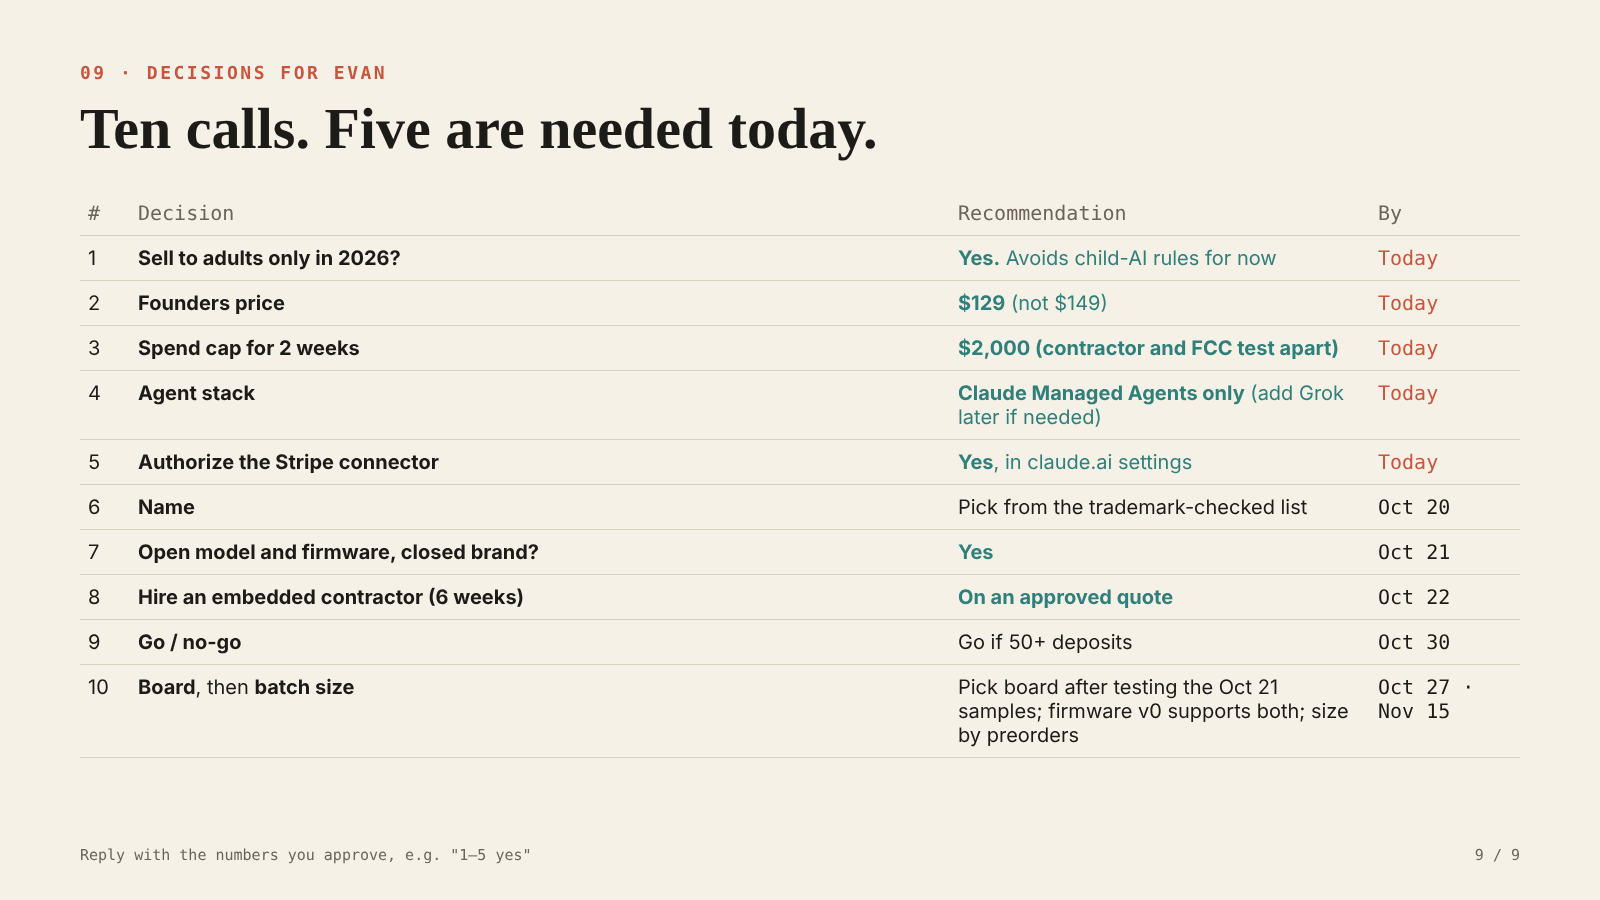
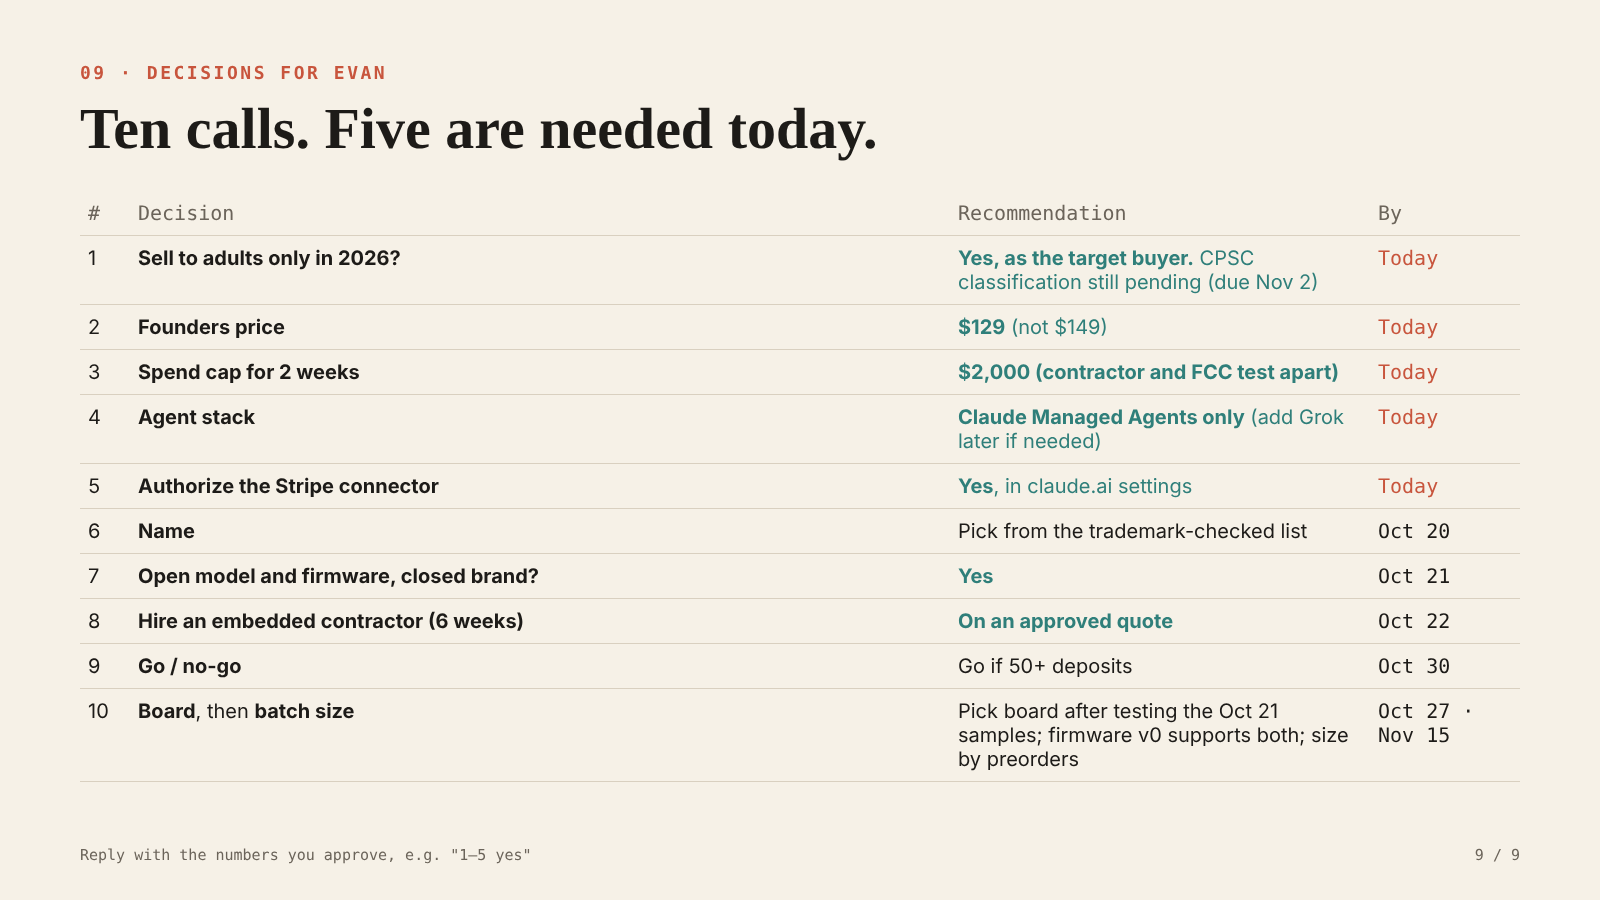
Eighteenth Codex review: no unfunded refund or update promises; Mahjong GO card; certificate cutoff; budget-paused runs; slide 09 classification
Claude-Session: https://claude.ai/code/session_01WCwHec3RfYx2cWkF2WjMXJ

Changed region(s): [[0.5938, 0.28, 0.9062, 0.8711], [0.0312, 0.3111, 0.3438, 0.8089]]

diff --git a/docs/zeitgeist/reports/2026-10-19.html b/docs/zeitgeist/reports/2026-10-19.html
@@ -107,7 +107,7 @@ footer{border-top:1px solid var(--rule);padding-top:20px;font-size:.85rem;color:
 
 <section aria-labelledby="bets">
   <h2 id="bets">GO trends</h2>
-  <p class="small">Correction, 20 October 2026: this section first listed Canasta. It is now WATCH (capped) and has its own section below. Mahjong (GO, 76) has no card here: it is the base the existing book already serves. Supper clubs (one press source) and game-night journals (no cited source) are also capped at WATCH by the two-signal-type rule.</p>
+  <p class="small">Correction, 20 October 2026: this section first listed Canasta. It is now WATCH (capped) and has its own section below. Mahjong (GO, 76) now has its own card, drawn from facts already in this report. Supper clubs (one press source) and game-night journals (no cited source) are also capped at WATCH by the two-signal-type rule.</p>
   <div class="bets">
 
   <article class="bet">
@@ -155,6 +155,28 @@ footer{border-top:1px solid var(--rule);padding-top:20px;font-size:.85rem;color:
       <div><div class="label">Cost</div>About $20 in fees and ads, plus chart design time.</div>
       <div><div class="label">Scale if</div>20+ total sales. Then publish the logbook and look for a canvas partner.</div>
       <div><div class="label">Stop if</div>Under 5 sales in 14 days.</div>
+    </div>
+  </article>
+
+  <article class="bet">
+    <div class="bet-head"><h3>3. Mahjong (the base)</h3><span class="score">76</span><span class="chip GO">GO</span><span class="small">Lane A · peak · factors 85 · 35 · 100 · 95 · 65 · 50</span></div>
+    <div>
+      <div class="label">Evidence (added 20 October 2026, from facts already in this report)</div>
+      <ul class="ev">
+        <li><span class="tag fact">FACT</span>Book demand: the paperback page, read 19 Oct 2026, shows "#83 in Card Games (Books)" (section "Book line moves").</li>
+        <li><span class="tag fact">FACT</span>Search and product demand: the "mahjong starter kit" Amazon keyword dropped 7,449 positions in one week in July. <a href="https://www.asinsight.com/report/US/mahjong-starter-kit">asinsight</a></li>
+        <li><span class="tag read">READ</span>Two signal types, so it stays GO, but the stage is peak (35): demand is high and flattening. Spend on the book you already sell, not on new mahjong products.</li>
+      </ul>
+    </div>
+    <div>
+      <div class="label">Revenue ladder</div>
+      <p>Book line: the moves in "Book line moves" below. No new gear or printables for mahjong itself; the growth is in the adjacent trends above.</p>
+    </div>
+    <div class="test">
+      <div><div class="label">14-day test</div>Move the paperback out of "Entertaining &amp; Holiday Cooking" into a games category.</div>
+      <div><div class="label">Cost</div>$0.</div>
+      <div><div class="label">Scale if</div>The Card Games rank improves within 14 days. Then add the review ask and the Countdown Deal.</div>
+      <div><div class="label">Stop if</div>No rank change in 14 days; leave the category and move to reviews.</div>
     </div>
   </article>
   </div>

diff --git a/docs/plans/companion-egg-images/slides.html b/docs/plans/companion-egg-images/slides.html
@@ -215,7 +215,7 @@ td{padding:10px 8px;border-bottom:1px solid var(--line);font-size:20px;vertical-
   <h1>Ten calls. Five are needed today.</h1>
   <table style="margin-top:30px">
     <tr class="mono mute" style="font-size:16px"><td style="width:50px">#</td><td>Decision</td><td style="width:420px">Recommendation</td><td style="width:150px">By</td></tr>
-    <tr><td>1</td><td><b>Sell to adults only in 2026?</b></td><td style="color:var(--teal)"><b>Yes.</b> Avoids child-AI rules for now</td><td class="mono" style="color:var(--rose)">Today</td></tr>
+    <tr><td>1</td><td><b>Sell to adults only in 2026?</b></td><td style="color:var(--teal)"><b>Yes, as the target buyer.</b> CPSC classification still pending (due Nov 2)</td><td class="mono" style="color:var(--rose)">Today</td></tr>
     <tr><td>2</td><td><b>Founders price</b></td><td style="color:var(--teal)"><b>$129</b> (not $149)</td><td class="mono" style="color:var(--rose)">Today</td></tr>
     <tr><td>3</td><td><b>Spend cap for 2 weeks</b></td><td style="color:var(--teal)"><b>$2,000 (contractor and FCC test apart)</b></td><td class="mono" style="color:var(--rose)">Today</td></tr>
     <tr><td>4</td><td><b>Agent stack</b></td><td style="color:var(--teal)"><b>Claude Managed Agents only</b> (add Grok later if needed)</td><td class="mono" style="color:var(--rose)">Today</td></tr>

diff --git a/docs/plans/companion-egg-christmas-2026.md b/docs/plans/companion-egg-christmas-2026.md
@@ -103,7 +103,7 @@ Plan:
 4. Add a word blocklist on the output. Add a fallback to scripted lines if the filter trips.
 5. Ship the model in flash. Ship personality packs as new model weights plus sprites.
 
-Model gate: a 200-line human review of model output runs on Sun Nov 8, before full preorders open and before the batch order. If it fails, preorders open for the scripted-lines pet, and the preorder page says so before anyone pays: the model "hatches" in a January update over USB, and any buyer can cancel for a full refund until the batch order on Nov 15. If the model passes Nov 8 but the Nov 20 freeze candidate fails its review, ship the Nov 8 model that already passed. The freeze can only improve on what buyers were sold, so no feature is lost and no refund round follows the batch order.
+Model gate: a 200-line human review of model output runs on Sun Nov 8, before full preorders open and before the batch order. If it fails, preorders open for the scripted-lines pet, sold as it is: the preorder page says before anyone pays that it speaks scripted lines and promises no model update. A later model, if one passes review, is a free extra, never a condition of the sale. Any buyer can cancel for a full refund until the batch order on Nov 15. If the model passes Nov 8 but the Nov 20 freeze candidate fails its review, ship the Nov 8 model that already passed. The freeze can only improve on what buyers were sold, so no feature is lost and no refund round follows the batch order.
 
 ## 4. Business plan
 
@@ -118,7 +118,7 @@ Model gate: a 200-line human review of model output runs on Sun Nov 8, before fu
 | Offer | Price | Ships | Notes |
 |---|---|---|---|
 | Founders Edition (numbered within the 300-unit batch) | $129 | Dec 8 to Dec 15 | Includes 2 species packs |
-| Gift box (certificate + sticker now, egg later) | $99 | Certificate by Dec 18. Egg: January if paid by Nov 15; February if paid after | The Christmas hedge. A gift box paid by Nov 15 reserves one egg inside the 300-unit batch (not extra hardware); its cash counts toward the batch gate. One paid after Nov 15 takes its egg from the February second hatch. The checkout page shows the buyer's egg month before payment |
+| Gift box (certificate + sticker now, egg later) | $99 | Printed certificate by Dec 18 if paid by Dec 14; after Dec 14, a printable certificate by email at purchase. Egg: January if paid by Nov 15; February if paid after | The Christmas hedge. A gift box paid by Nov 15 reserves one egg inside the 300-unit batch (not extra hardware); its cash counts toward the batch gate. One paid after Nov 15 takes its egg from the February second hatch. The checkout page shows the buyer's egg month before payment |
 | Developer Edition (open firmware, clear shell) | $149 | Dec 8 to Dec 15 | Limit 50, counted inside the 300-unit batch (not extra hardware); the larger Developer Edition run is the Q1 2027 Crowd Supply campaign. The clear shell for these 50 is part of the shell quotes; if no clear shell is quoted by Nov 2, the offer drops "clear shell" before preorders open on Nov 9 |
 | Personality pack | $12 | Digital, USB install | From January |
 | Refundable deposit (Oct 24 to Oct 30) | $25 | n/a | Measures demand; stays open through the Oct 30 go/no-go. On Nov 9 each depositor gets a preorder link for the balance ($104 for Founders), with the $25 credited, never charged twice. A depositor who does not convert by Nov 15, when Christmas preorders close, gets the $25 back in full. Until then every deposit is a refund liability, not batch cash |
@@ -154,7 +154,7 @@ The contractor and the FCC test are each approved on their own quote. Get the qu
 
 The batch order (at most 310 units built for 300 sold; at $39 to $57 landed, a full 310 costs about $12.1k to $17.7k) is paid from preorder cash. The 10 spare units cover the QA failures the Week 6 gate allows (under 3% of 310 is 9 units or fewer). Size the batch to paid orders, never to cash: build = paid orders / 0.97, rounded up, at most 310, even if the cash would buy more. Do not order the batch until collected preorder cash covers the whole order, plus $12 shipping and about 3% payment fees on every paid order, plus 10% for refunds. If preorders cover less than that by the order date, cut the batch to the number of units the cash covers, or name another source of funds in writing before ordering. A cut batch keeps the QA buffer: sell at most 97% of the units built, rounded down (build = sale cap / 0.97, rounded up).
 
-**February second hatch.** Orders paid Nov 16 to Dec 31 (Black Friday gift boxes and second-hatch preorders) belong to a separate batch, capped at 300. On Jan 4 its size locks to its own paid orders / 0.97, rounded up, under the same cash gate; parts are ordered that day, assembly and QA run Jan 25 to Jan 31, and eggs ship by Feb 14. It reuses the Christmas batch's FCC authorization and QA checks. Its cash is not spent before Jan 4. If the batch cannot ship by Feb 28, every second-hatch buyer is refunded in full.
+**February second hatch.** Orders paid Nov 16 to Dec 31 (Black Friday gift boxes and second-hatch preorders) belong to a separate batch, capped at 300. On Jan 4 its size locks to its own paid orders / 0.97, rounded up, under the same cash gate; parts are ordered that day, assembly and QA run Jan 25 to Jan 31, and eggs ship by Feb 14. It reuses the Christmas batch's FCC authorization and QA checks. Its cash is not spent before Jan 4. Second-hatch buyers can cancel for a full refund until the Jan 4 parts order, the same rule as Christmas. After that their cash is committed, so the page promises a February ship target and dated updates, not a refund if production slips.
 
 ### 4.5 Risks
 

diff --git a/deployments/zeitgeist-weekly.md b/deployments/zeitgeist-weekly.md
@@ -37,3 +37,11 @@ it, pause the deployment first:
 `ant beta:deployments pause --deployment-id <id>`. Resolve the pending run,
 then `ant beta:deployments unpause --deployment-id <id>`. Unpausing resumes
 at the next scheduled Monday; a missed Monday is not run again.
+
+A session can also stop on its budget. When a run reaches the $5 cap it
+pauses with `budget_reached`, not with a tool confirmation, so approving
+tools will not move it. Check the session's stop reason first. If it is
+`budget_reached`, pause the deployment as above, then either raise that
+session's budget (budgets are changed on the session itself) and let it
+finish, or end it and note the missed week in the run log by hand. Unpause
+afterwards.
